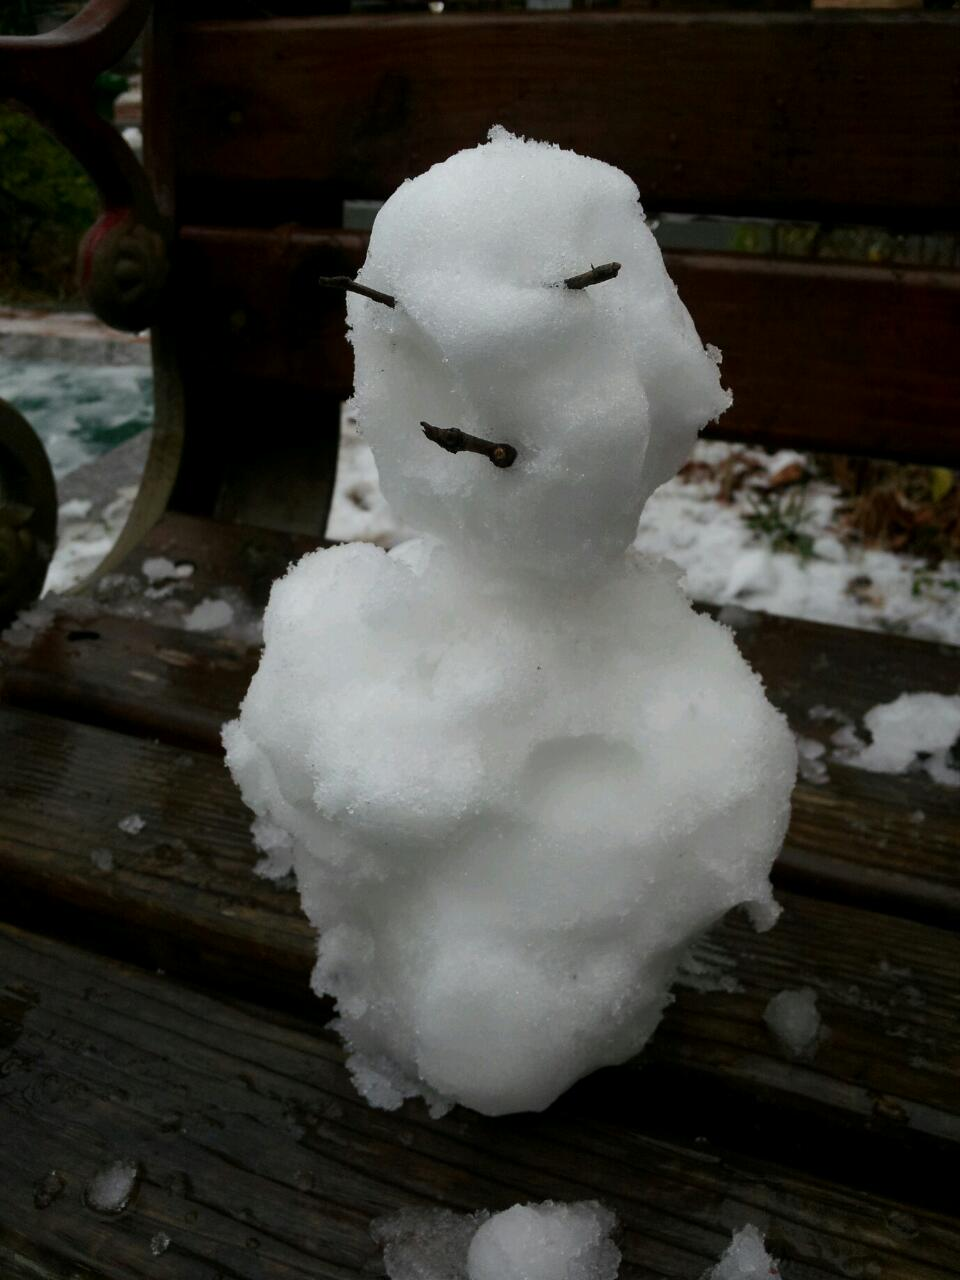
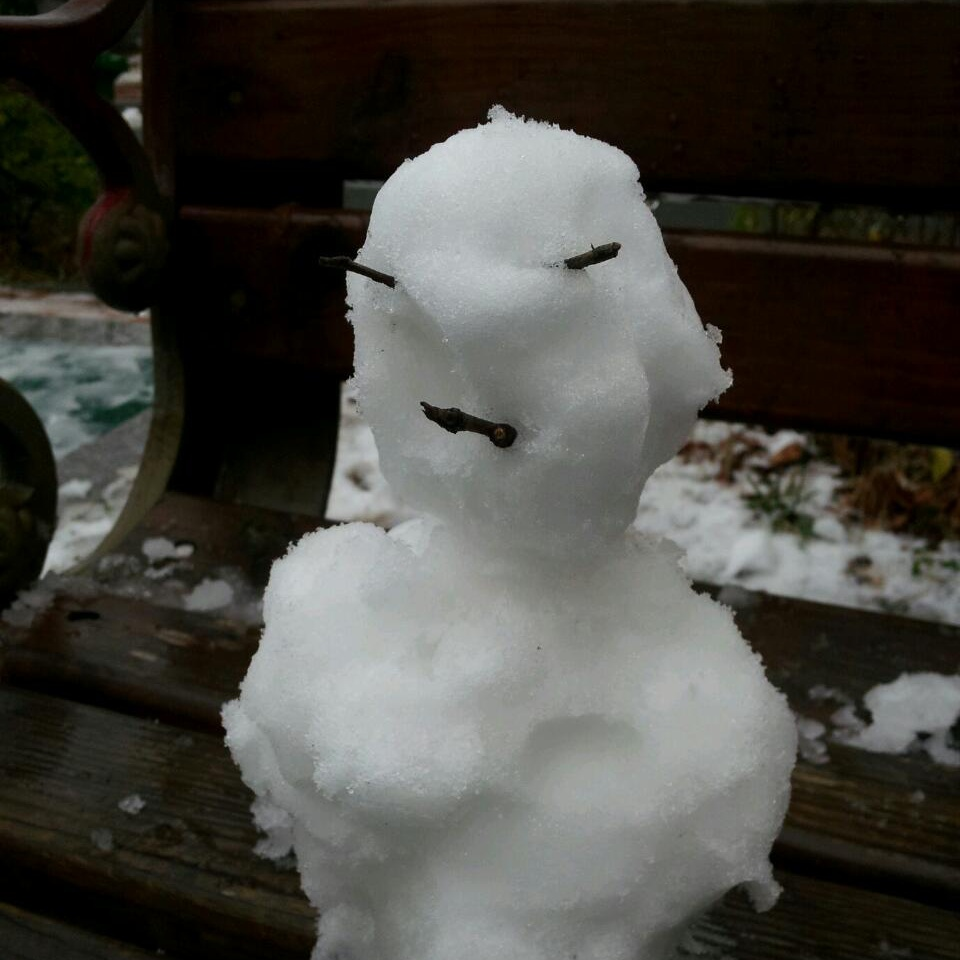
ㅇ

diff --git a/index.html b/index.html
@@ -26,7 +26,6 @@
       background-size: cover;
       background-position: center;
       background-repeat: no-repeat;
-      transition: opacity 450ms ease;
       z-index: 0;
     }
 
@@ -60,7 +59,6 @@
   <script>
     const images = [
       "/Photos/16348C11-4694-4CD5-B2AC-22FD359C9B06.JPG",
-      "/Photos/70E6ACD0-83E7-495E-AA1A-E2F204C9D743.JPG",
       "/Photos/829C71A9-F415-47BB-A0B3-8B8BA6F026D9.JPG",
       "/Photos/92BBBA0A-3942-4280-AD89-7AEBD53ADFE6.jpg",
       "/Photos/A889146D-FA9A-4C41-B1B7-C21E8B9A6B5D.jpg",
@@ -70,7 +68,6 @@
       "/Photos/E3DB69E3-8812-4504-9456-24CC5D962708.jpg",
       "/Photos/EAB91292-38ED-48BF-B8B1-A6DC6A1C0D98.jpeg",
       "/Photos/F1B6AA5C-F6E6-4054-A264-5E53230495B0.jpg",
-      "/Photos/IMG_0410jpg.jpg",
       "/Photos/IMG_5323jpg.jpg",
       "/Photos/IMG_5996.JPG",
       "/Photos/IMG_7402.JPG",
@@ -89,11 +86,7 @@
     setInterval(() => {
       if (images.length < 2) return;
       index = (index + 1) % images.length;
-      bg.style.opacity = "0.35";
-      setTimeout(() => {
-        bg.style.backgroundImage = `url('${images[index]}')`;
-        bg.style.opacity = "1";
-      }, 180);
+      bg.style.backgroundImage = `url('${images[index]}')`;
     }, 2000);
   </script>
 </body>
